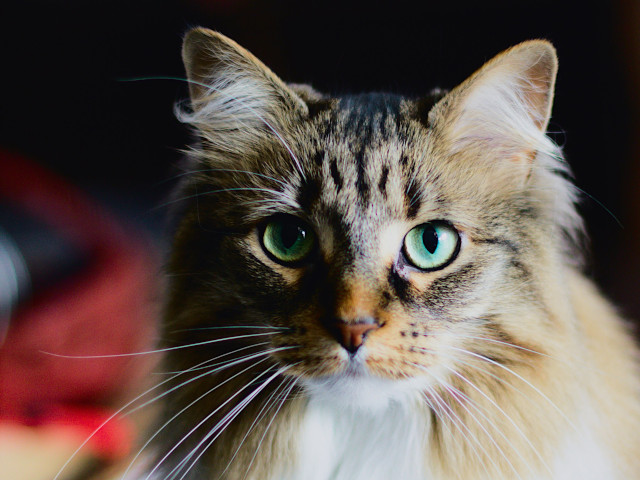
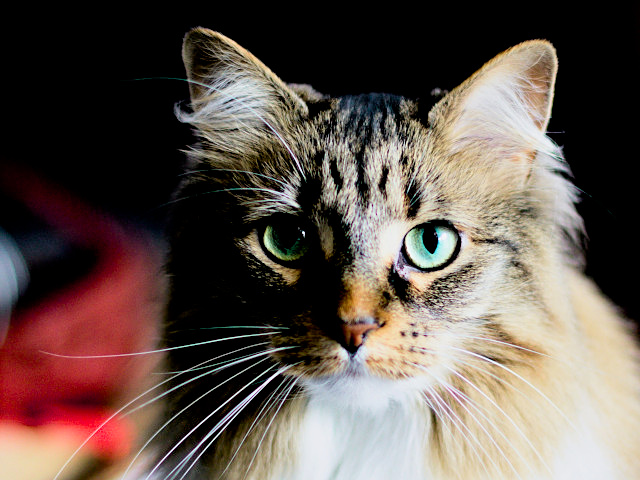
Darth pepper first

diff --git a/index.html b/index.html
@@ -340,7 +340,7 @@
               <div class="plate__window">
                 <img
                   id="plate-img"
-                  src="photos/rainbow-skull.jpg"
+                  src="photos/darth-pepper-motion.jpg"
                   width="1200"
                   height="800"
                   fetchpriority="high"
@@ -359,6 +359,11 @@
             <!-- Edit this list to change the photos. Nothing else to touch. -->
             <script type="application/json" id="plate-data">
               [
+                {
+                  "src": "photos/darth-pepper-motion.jpg",
+                  "alt": "Lego Darth Vader hanging on to a pepper stem",
+                  "permalink": "https://instagram.com/ben.atlarge"
+                },
                 {
                   "src": "photos/rainbow-skull.jpg",
                   "alt": "Photo of a multicolored skull",
@@ -382,11 +387,6 @@
                 {
                   "src": "photos/bicycle.jpg",
                   "alt": "Photo of a bicycle against a brick wall",
-                  "permalink": "https://instagram.com/ben.atlarge"
-                },
-                {
-                  "src": "photos/darth-pepper-motion.jpg",
-                  "alt": "Lego Darth Vader hanging on to a pepper stem",
                   "permalink": "https://instagram.com/ben.atlarge"
                 },
                 {
